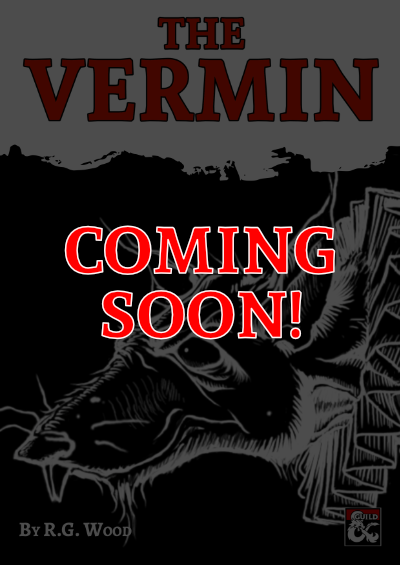
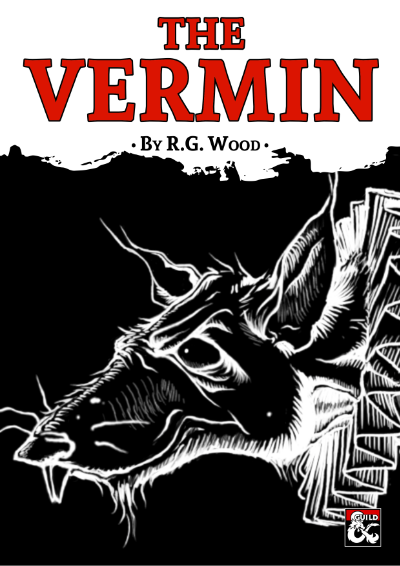
"The Vermin" released

diff --git a/posts/products/vermin.html b/posts/products/vermin.html
@@ -5,6 +5,7 @@ date: 2020-03-01
 layout: product.hbs
 image: images/covers/vermin.png
 publish: draft
+redirectTo: "https://www.dmsguild.com/product/314195/The-Vermin?affiliate_id=1765521"
 ---
 <figure class="illustration">
   <img class="og-image" src="/images/covers/vermin.png" alt="The Vermin Cover">
